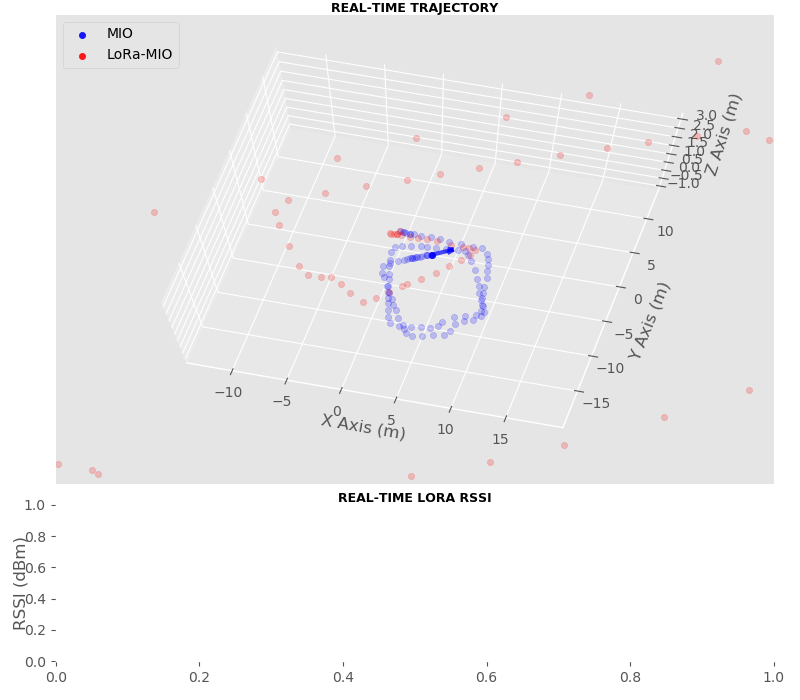
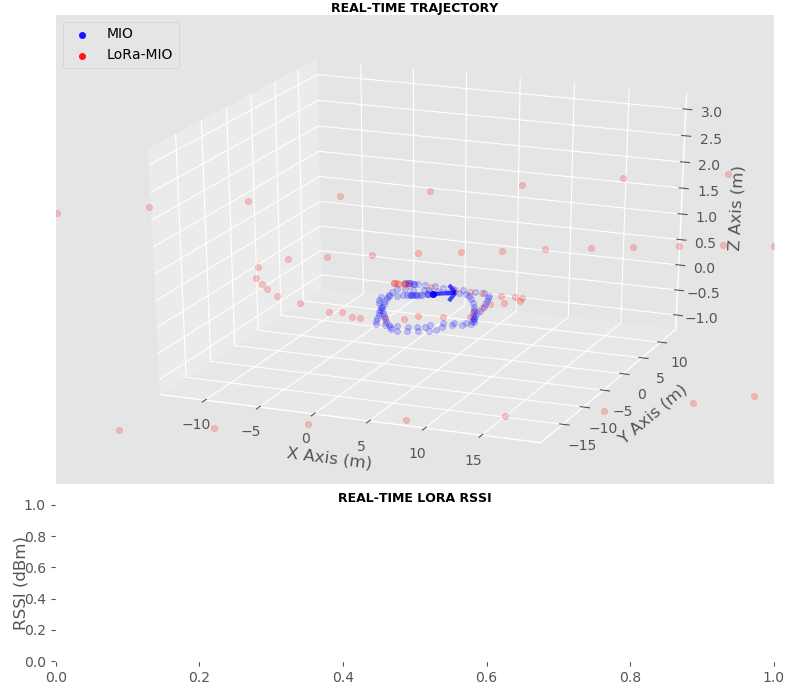
Fix a BUG: observation trans should take sin/cos(dt * W) as steering angle

diff --git a/replay.py b/replay.py
@@ -158,9 +158,9 @@ class EKF_Fusion_MultiRX_AngularV(EKF_Fusion):
             # Refresh Measurement noise R
             # Tip1: TRANS_X uncertainty larger than TRANS_Y
             # Tip2: Large ROT_Z noise loses abs_yaw; Small ROT_Z noise loses track
-            self.my_kf.R[0, 0] = 0.0000004  # self.sigma_list[-g][0]*1000
-            self.my_kf.R[1, 1] = 0.00000001  # self.sigma_list[-g][1]*1000
-            self.my_kf.R[2, 2] = 0.0000000000001  # self.sigma_list[-g][-1]**2 # Sigma of ROT_Z
+            self.my_kf.R[0, 0] = 0.004  # self.sigma_list[-g][0]*1000
+            self.my_kf.R[1, 1] = 0.001  # self.sigma_list[-g][1]*1000
+            self.my_kf.R[2, 2] = 0.0001  # self.sigma_list[-g][-1]**2 # Sigma of ROT_Z
             for rowcol in range(3, 3+self.anchor):
                 self.my_kf.R[rowcol, rowcol] = 4 * SIGMA**2
 
@@ -172,28 +172,36 @@ class EKF_Fusion_MultiRX_AngularV(EKF_Fusion):
                                            [0, 0, 0, 0, self.dt],
                                            [0, 0, 0, 0, 0],
                                            [0, 0, 0, 0, 0]]) #Fix a BUG:self.dt multiplied twice
-
-            # PREDICTION
-            self.my_kf.predict()
-            #print("X-:\n", self.my_kf.x)
-
-            # UPDATE
-            self.my_kf.update(z, HJacobian_at_AngularV, hx_AngularV, args=(self.anchor), hx_args=(self.anchor))
             '''
             # IMPOSE CONSTRAINTS
             self.my_kf.x, self.my_kf.P = self.constraints()
             # print("Constraint State = ", self.my_kf.x)
             # print("Constraint Error Cov = ", self.my_kf.P)
             '''
+            # PREDICTION
+            self.my_kf.predict()
+            #print("X-:\n", self.my_kf.x)
+
+
+
+            # UPDATE
+            self.my_kf.update(z, HJacobian_at_AngularV, hx_AngularV, args=(self.anchor), hx_args=(self.anchor))
+
+
+
             # Log Posterior State x
             self.xs.append(self.my_kf.x)
             #print("X+:\n", self.my_kf.x)
             # print("EKF per round takes %.6f s" % (time.time() - start_t))
 
     def constraints(self):
-        A = np.diag(np.array([0, 0, 0, 1., 1.]))
+        A = np.array([[0, 0., 0, 1., 0.],
+                      [0, 0., 0, -1., 0.],
+                      [0, 0., 0, 0., 1.],
+                      [0, 0., 0, 0., -1.],
+                      [0, 0., 1., 0., 0.]])
         A_1 = np.linalg.pinv(A)
-        b = np.array([0, 0, 0, 3., 1*math.pi/2]).reshape((-1, 1))
+        b = np.array([1., 0., 1*math.pi/3, 1*math.pi/3, 0.]).reshape((-1, 1))
         x_k = self.my_kf.x
         Pk = self.my_kf.P
         # Constrained State
@@ -211,9 +219,11 @@ class EKF_Fusion_MultiRX_AngularV(EKF_Fusion):
             if x_pk0[3, 0] <= b[3, 0] and x_pk0[4, 0] <= b[4, 0]:
                 continue
             else:
-                x_pk0 = x_k + step*(lamda-1)*s
+
+                x_pk0 = x_k + step * (lamda - 1) * s
                 print(lamda)
                 break
+
 
         x_pk = x_pk0
         Pk_p = np.dot(x_pk, x_pk.reshape((1, -1)))

diff --git a/EKF.py b/EKF.py
@@ -132,8 +132,8 @@ def HJacobian_at_AngularV(x, anchor=1):
     # Fix a BUG: denom is variable
     a = ALPHA * math.log10(math.e)
     # HJabobian in (4, 5) if ONE LoRa RX; (6, 5) if THREE LoRa RXs available
-    Jacob = array([[0, 0, 0, dt * math.cos(W), -dt * V * math.sin(W)],
-                   [0, 0, 0, dt * math.sin(W), dt * V * math.cos(W)],
+    Jacob = array([[0, 0, 0, dt**2 * math.cos(dt*W), -dt**2 * V * math.sin(dt*W)],
+                   [0, 0, 0, dt**2 * math.sin(dt*W), dt**2 * V * math.cos(dt*W)],
                    [0, 0, 0, 0, dt]])
     for row in range(0, anchor):
         denom = (X - R1[row, 0]) ** 2 + (Y - R1[row, 1]) ** 2
@@ -149,8 +149,8 @@ def hx_AngularV(x, anchor=1):
     """ compute measurement of [X, Y, ROT_Z, RSSIs...]^T that would correspond to state x.
     """
     dt = .1
-    trans_x = dt * x[3, 0] * math.cos(x[4, 0])
-    trans_y = dt * x[3, 0] * math.sin(x[4, 0])
+    trans_x = dt * x[3, 0] * math.cos(dt * x[4, 0])
+    trans_y = dt * x[3, 0] * math.sin(dt * x[4, 0])
     rot_z = dt * x[4, 0]
     h = array([trans_x, trans_y, rot_z]).reshape((-1, 1))
     for row in range(0, anchor):
